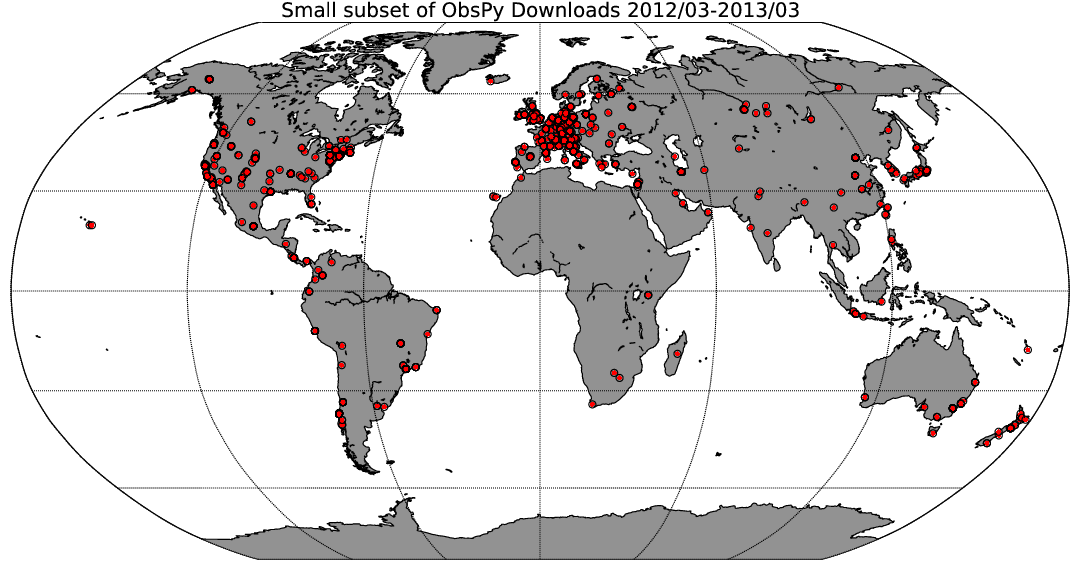
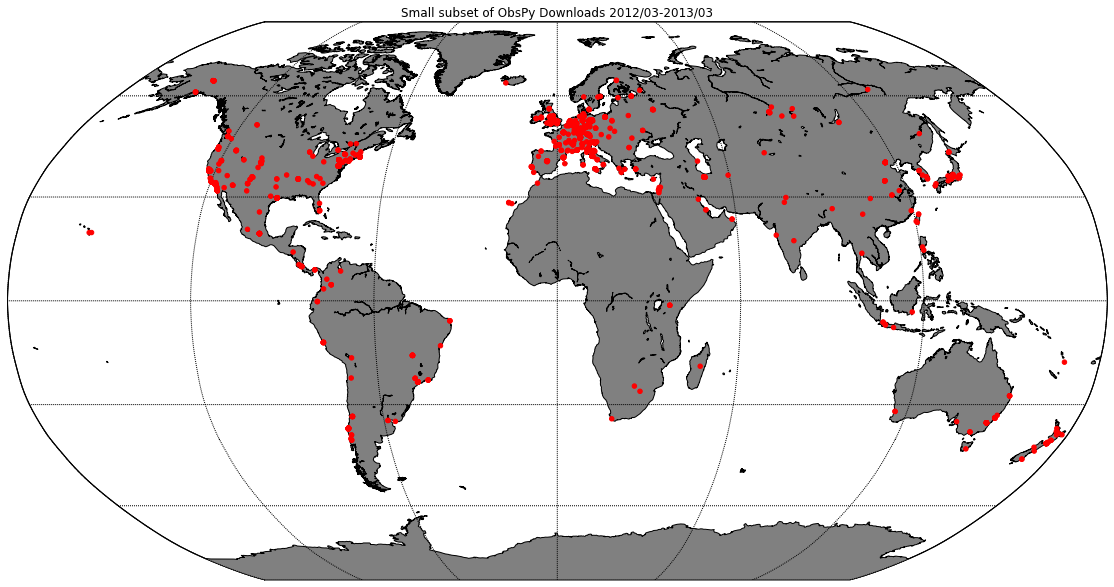
iris workshop intro, minor changes

diff --git a/workshops/2013_iris/introduction/slides.html b/workshops/2013_iris/introduction/slides.html
@@ -22,10 +22,10 @@
 
   <style>
     .slides.template-default article.biglogo {
-        background: white url(images/obspy-logo-waveform.png) 10% 10% no-repeat !important;
+        background: white url(images/obspy_logo_only_waveform_lightgray.svg) 10% 10% no-repeat !important;
     }
     .slides.template-default > article:not(.nobackground):not(.biglogo) {
-        background: white url(images/obspy-logo-waveform.png) 700px 530px no-repeat !important;
+        background: white url(images/obspy_logo_only_waveform_lightgray.svg) 730px 550px no-repeat scroll !important;
     } 
     ol:first-child {
       margin-top: 0;
@@ -125,7 +125,7 @@
             <li>Runs on all Platforms
                 <ul>
                 <small>
-                <li>Windows, Mac, Linux  (Installers, Debian/Ubuntu repository)</li>
+                <li>Windows, Mac, Linux, FreeBSD (Installers, Debian/Ubuntu repository, ...)</li>
                 <li>from RaspberryPi (35$) to SuperMUC (&gt;150 Mio.$)</li>
                 </small>
                 </ul>
